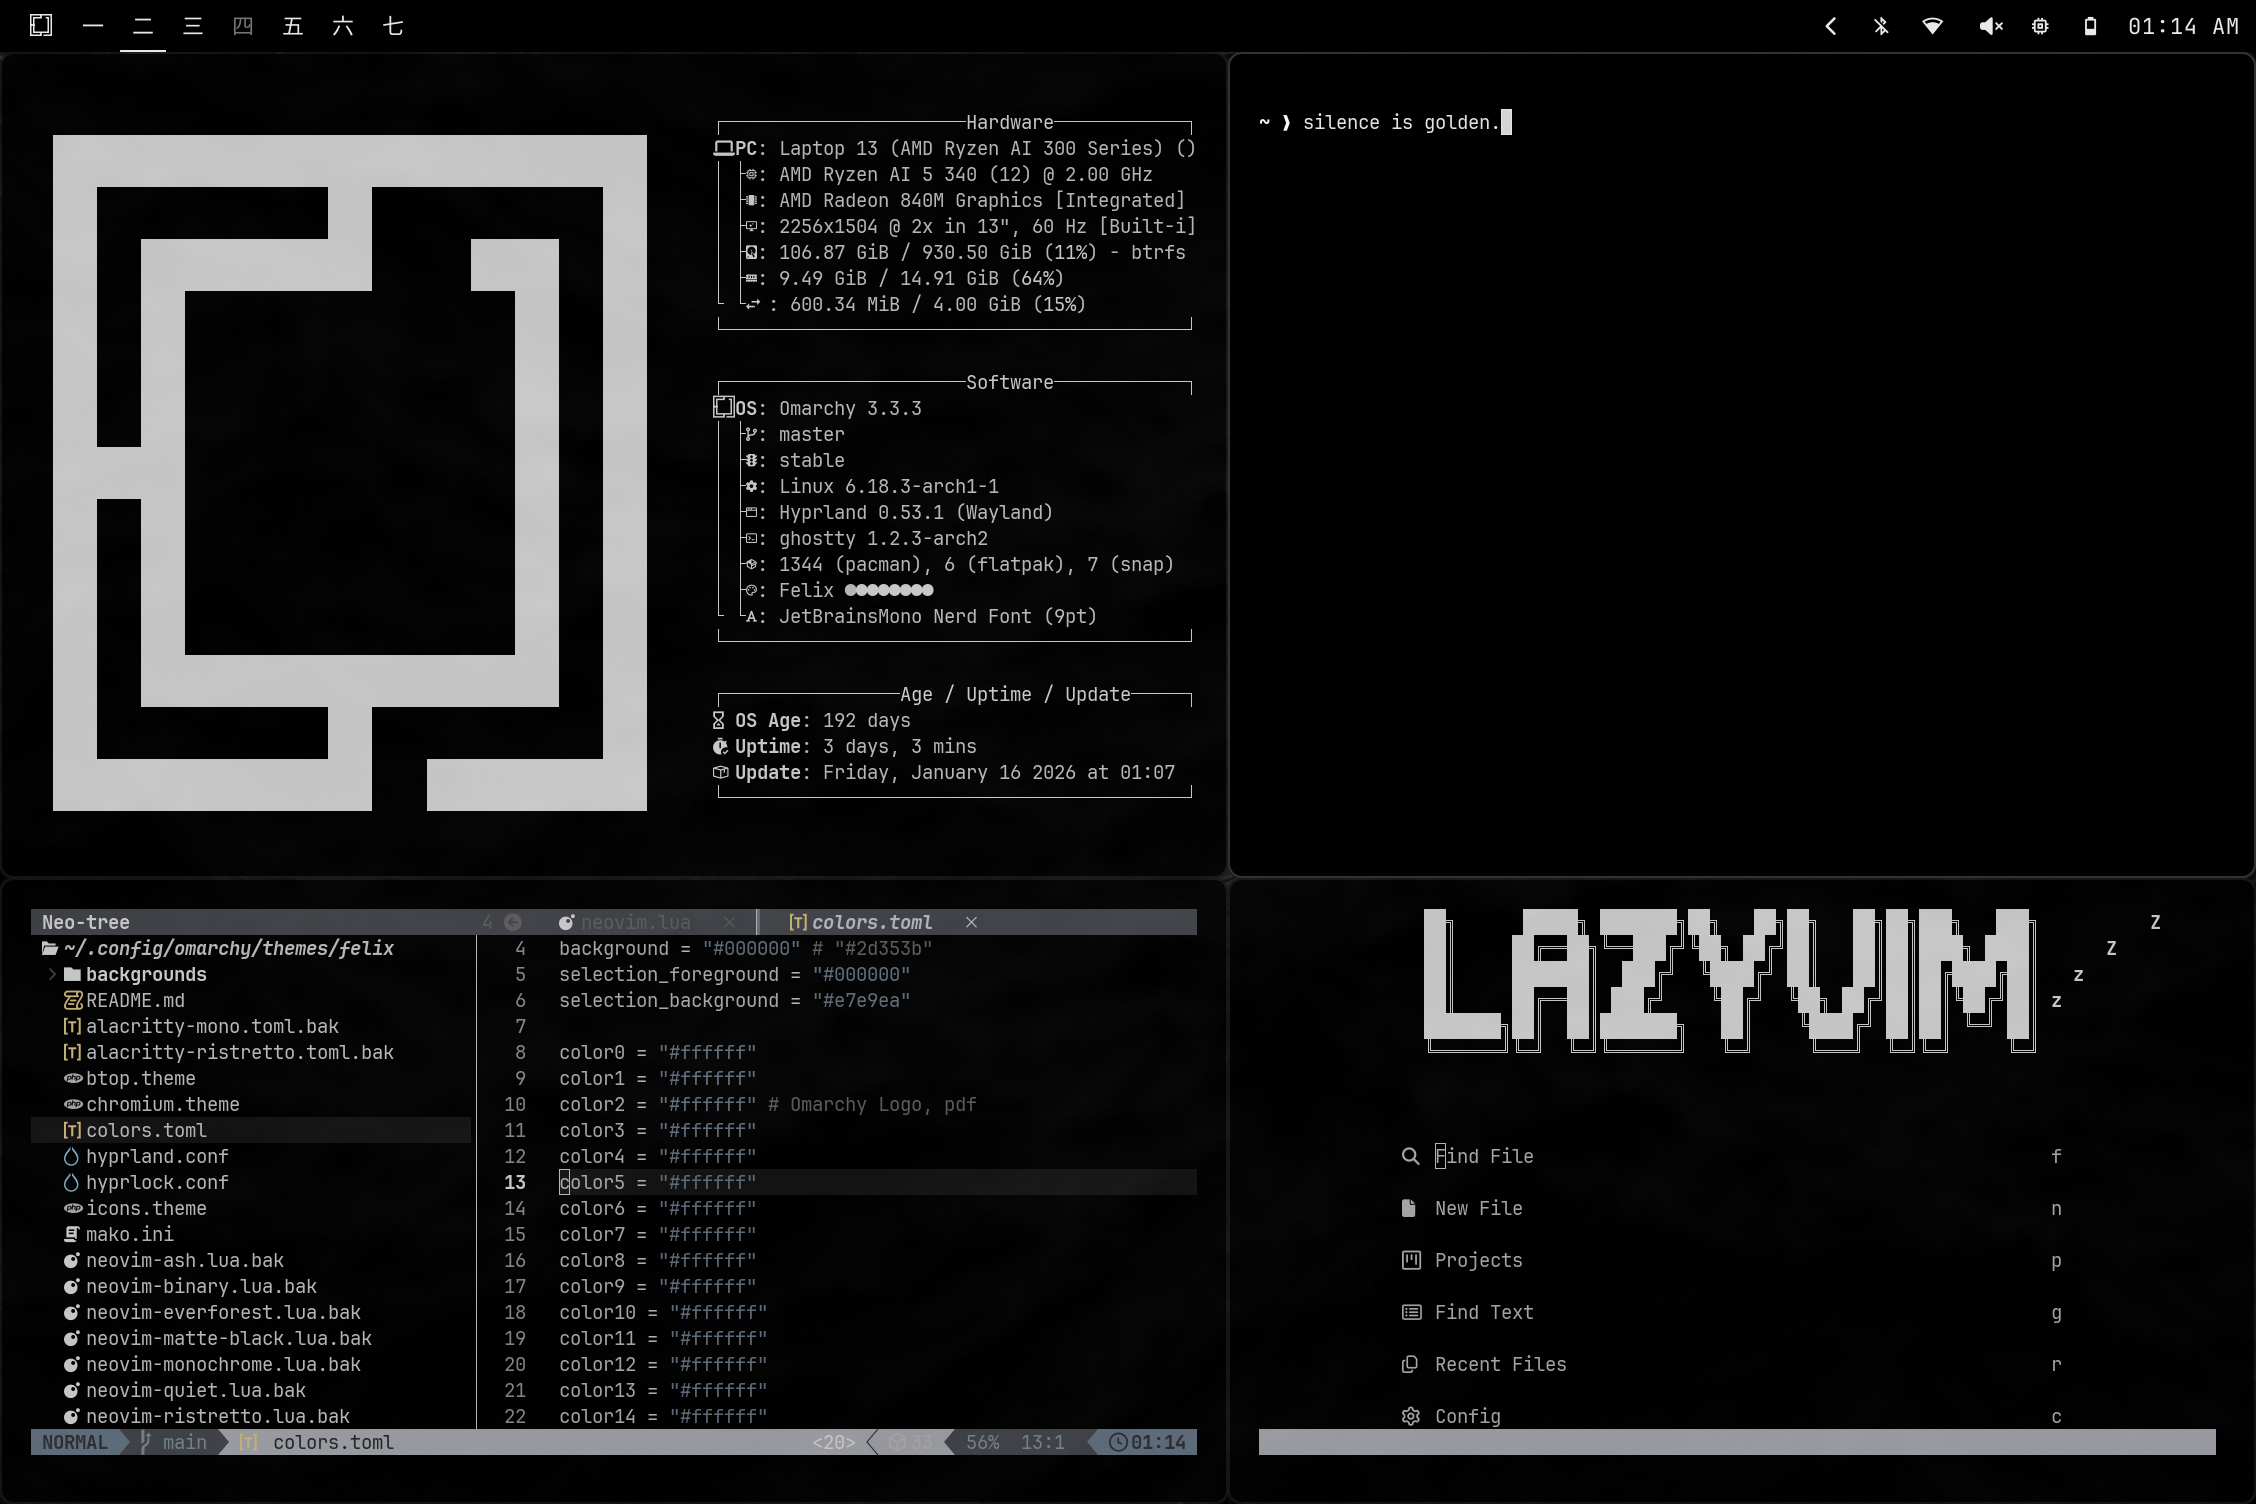
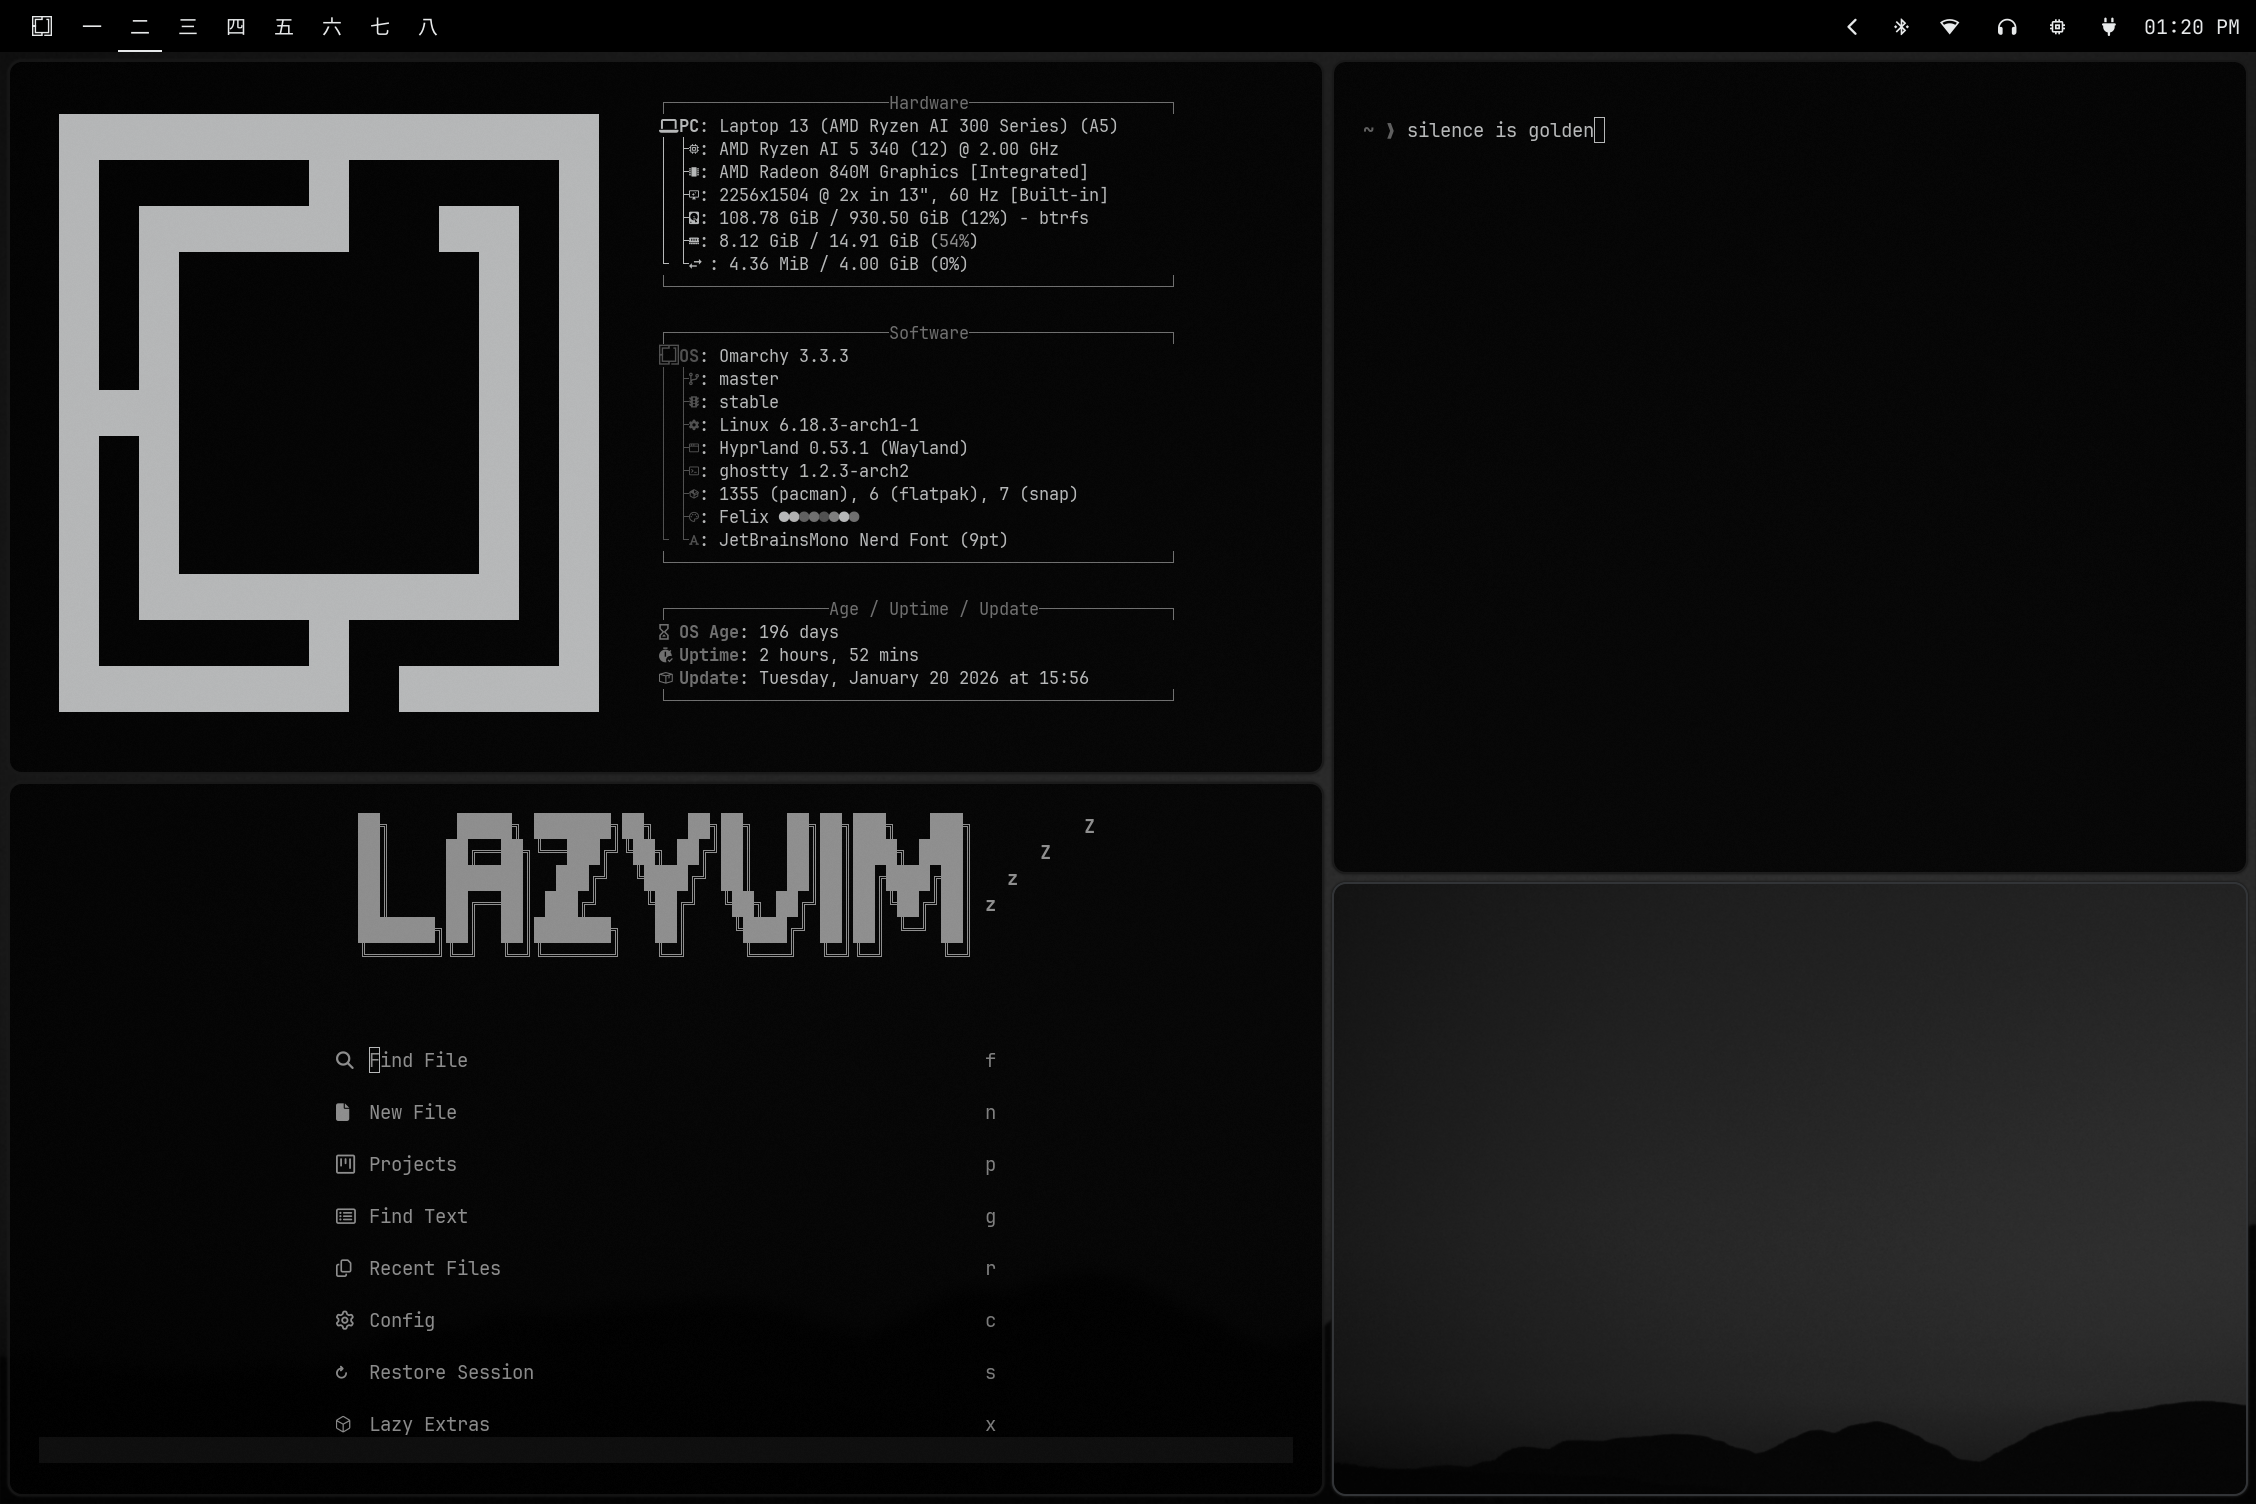
Massive file cleanup & refined backgrounds & spacing added

diff --git a/walker.css b/walker.css
@@ -9,10 +9,34 @@
   border-radius: 6px;
   /* border: 1px solid lighter(@border); */ 
   border-width: 1px;
+  overflow: hidden;
 }
 
 #search {
   border-radius: 6px;
   /* background: transparent(@background); */
   border-width: 1px;
+}
+
+/* Sometimes needed for the outer wrapper or list */
+.box-wrapper {
+    border-radius: 6px;
+    border-width: 1px;
+}
+
+#search {
+  border-radius: 6px;
+  /* background: transparent(@background); */
+  border-width: 1px;
+}
+
+/* If the above don't catch it, target more specifically */
+window {
+    border-radius: 6px;
+    border-width: 1px;
+}
+
+#outer-box {
+    border-radius: 6px;
+    border-width: 1px;
 }

diff --git a/waybar.css b/waybar.css
@@ -4,9 +4,6 @@
 * {
   background-color: @background;
   color: @foreground;
-  font-family: JetBrainsMono Nerd Font Propo;
-  font-size: 12px;
-  font-weight: bold;
 }
 
 #workspaces button.active {
